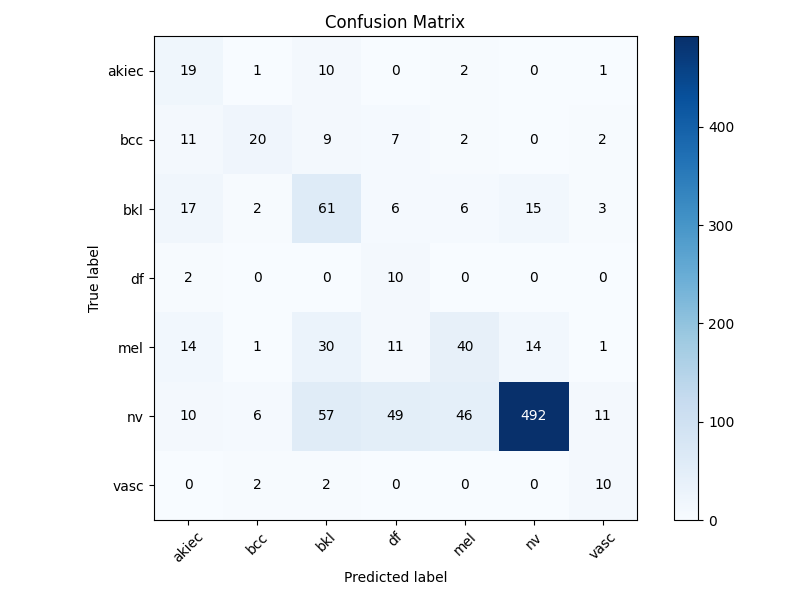
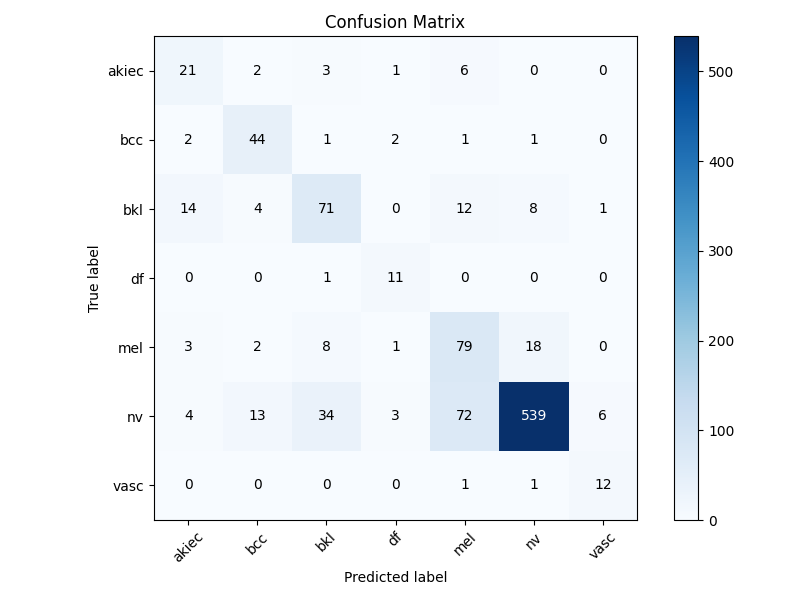
update before meeting #4

diff --git a/all_classes/train_v2.py b/all_classes/train_v2.py
@@ -2,14 +2,15 @@ import os
 import torch
 import torch.nn as nn
 import torch.optim as optim
-from torch.optim.lr_scheduler import ReduceLROnPlateau
+from torch.optim.lr_scheduler import StepLR
 from torchvision import datasets, transforms, models
-from torch.utils.data import DataLoader, WeightedRandomSampler
+from torch.utils.data import DataLoader
 from sklearn.metrics import classification_report, confusion_matrix
 import numpy as np
 import matplotlib.pyplot as plt
 from collections import Counter
 from tqdm import tqdm  # For progress bars
+import copy
 
 # ------------------------------
 # Configuration
@@ -25,8 +26,8 @@ else:
 
 # Image parameters
 IMG_HEIGHT = 224  # Updated to 224 for ResNet
-IMG_WIDTH = 224  # Updated to 224 for ResNet
-BATCH_SIZE = 128   # Adjusted batch size for better GPU utilization
+IMG_WIDTH = 224   # Updated to 224 for ResNet
+BATCH_SIZE = 16   # Adjusted batch size for better GPU utilization
 NUM_CLASSES = 7   # Updated to 7 for all disease classes
 EPOCHS = 150
 
@@ -38,9 +39,21 @@ Train class counts: Counter({5: 5363, 4: 891, 2: 879, 1: 411, 0: 261, 6: 114, 3:
 Class weights: [4.384783798576902, 2.78449774070212, 1.3019665203965545, 12.43944099378882, 1.284431617764951, 0.21339335659678751, 10.038847117794486]
 '''
 
+class ResNet18WithDropout(nn.Module):
+    def __init__(self, num_classes=7, dropout_prob=0.5):
+        super(ResNet18WithDropout, self).__init__()
+        self.resnet = models.resnet18(weights=models.ResNet18_Weights.DEFAULT)
+        num_ftrs = self.resnet.fc.in_features
+        self.resnet.fc = nn.Sequential(
+            nn.Dropout(p=dropout_prob),
+            nn.Linear(num_ftrs, num_classes)
+        )
+    
+    def forward(self, x):
+        return self.resnet(x)
+
 def main():
     # Set paths to training, validation, and test directories
-    # Ensure these paths point to the directories with all 7 classes
     train_dir = '../datasets/ham10000_classified/train'
     validation_dir = '../datasets/ham10000_classified/val'
     test_dir = '../datasets/ham10000_classified/test'
@@ -56,9 +69,9 @@ def main():
             transforms.Resize((IMG_HEIGHT, IMG_WIDTH)),
             transforms.RandomHorizontalFlip(),
             transforms.RandomVerticalFlip(),
-            transforms.RandomRotation(60),
-            transforms.RandomResizedCrop(IMG_HEIGHT, scale=(0.6, 1.0)),
-            transforms.ColorJitter(brightness=0.4, contrast=0.4, saturation=0.4, hue=0.4),
+            transforms.RandomRotation(20),
+            transforms.RandomResizedCrop(IMG_HEIGHT, scale=(0.8, 1.0)),
+            transforms.ColorJitter(brightness=0.2, contrast=0.2, saturation=0.2, hue=0.2),
             transforms.ToTensor(),
             transforms.Normalize([0.485, 0.456, 0.406],   # Mean for normalization
                                  [0.229, 0.224, 0.225])  # Std for normalization
@@ -101,41 +114,34 @@ def main():
             class_weight = 0  # Avoid division by zero
             print(f"Warning: Class {label} has zero samples in training data.")
         class_weights.append(class_weight)
-        #print(f"Class {label} count: {class_counts[label]}")
-        #print(f"Class {label} weight: {class_weight}")
     
     print(f"Class weights(normal): {class_weights}")
     # Convert class_weights to a tensor
     class_weights = torch.tensor(class_weights, dtype=torch.float).to(device)
     print(f"Class weights(torch): {class_weights}")
 
-
     # Data loaders with num_workers set to 0
     train_loader = DataLoader(train_dataset, batch_size=BATCH_SIZE, shuffle=True, num_workers=0)
     val_loader = DataLoader(val_dataset, batch_size=BATCH_SIZE, shuffle=False, num_workers=0)
     test_loader = DataLoader(test_dataset, batch_size=BATCH_SIZE, shuffle=False, num_workers=0)
 
-    # Load pre-trained ResNet-18 model and modify for multi-class classification
-    model = models.resnet18(weights=models.ResNet18_Weights.DEFAULT)
-
-    num_ftrs = model.fc.in_features
-    # Replace the last layer with a multi-class classification layer
-    model.fc = nn.Linear(num_ftrs, NUM_CLASSES)
-    model = model.to(device)
+    # Initialize the model with dropout
+    model = ResNet18WithDropout(num_classes=NUM_CLASSES, dropout_prob=0.5).to(device)
 
     # Loss function and optimizer
     criterion = nn.CrossEntropyLoss(weight=class_weights)
-    # Weight decay (L2 regularization) helps prevent overfitting by penalizing large weights.
-    optimizer = optim.Adam(model.parameters(), lr=0.0001, weight_decay=1e-4)
-    scheduler = ReduceLROnPlateau(optimizer=optimizer,
-                                  factor=0.1,
-                                  mode='min',
-                                  patience=10)
+    optimizer = optim.SGD(model.parameters(), lr=0.01, momentum=0.9, weight_decay=1e-4)
+    scheduler = StepLR(optimizer, step_size=30, gamma=0.1)
 
     # Training and validation loop
     train_losses, val_losses = [], []
     train_accuracies, val_accuracies = [], []
     learning_rates = []  # Initialize list to store learning rates
+
+    best_val_acc = 0.0
+    best_model_wts = copy.deepcopy(model.state_dict())
+    patience = 15
+    counter = 0
 
     for epoch in range(EPOCHS):
         print(f"\nEpoch {epoch+1}/{EPOCHS}")
@@ -173,7 +179,7 @@ def main():
             train_bar.set_postfix(loss=loss.item())
 
         epoch_loss = running_loss / len(train_dataset)
-        epoch_acc = correct.float() / len(train_dataset) 
+        epoch_acc = correct.float() / len(train_dataset)
         train_losses.append(epoch_loss)
         train_accuracies.append(epoch_acc.item())
         print(f"Training Loss: {epoch_loss:.4f} Acc: {epoch_acc:.4f}")
@@ -212,22 +218,31 @@ def main():
         val_accuracies.append(val_epoch_acc.item())
         print(f"Validation Loss: {val_epoch_loss:.4f} Acc: {val_epoch_acc:.4f}")
 
-        # learning rate 
-        scheduler.step(val_epoch_loss)
-        current_lr = scheduler.get_last_lr()[0]
+        # Update the scheduler
+        scheduler.step()
+
+        # Get current learning rate
+        current_lr = optimizer.param_groups[0]['lr']
         print(f"Current Learning Rate: {current_lr}")
         learning_rates.append(current_lr)
 
-        # historical metrics
-        print("------------- HISTORY ------------")
-        print(f"Training Accuracies: {train_accuracies}\n")
-        print(f"Validation Accuracies: {val_accuracies}\n")
-        print(f"Training Losses: {train_losses}\n")
-        print(f"Validation Losses: {val_losses}\n")
-        print(f"Learning Rates: {learning_rates}")
-        print("------------- HISTORY ------------")
+        # Early Stopping
+        if val_epoch_acc > best_val_acc:
+            best_val_acc = val_epoch_acc
+            best_model_wts = copy.deepcopy(model.state_dict())
+            counter = 0
+            print("New best model found!")
+        else:
+            counter += 1
+            print(f"No improvement for {counter} epochs.")
+            if counter >= patience:
+                print("Early stopping triggered.")
+                break
 
     print("\nTraining complete.")
+
+    # Load best model weights
+    model.load_state_dict(best_model_wts)
 
     # Evaluate on test set
     model.eval()
@@ -292,8 +307,8 @@ def main():
 
     # Plot training & validation accuracy values
     plt.figure(figsize=(8, 4))
-    plt.plot(range(1, EPOCHS+1), train_accuracies, label='Train')
-    plt.plot(range(1, EPOCHS+1), val_accuracies, label='Validation')
+    plt.plot(range(1, len(train_accuracies)+1), train_accuracies, label='Train')
+    plt.plot(range(1, len(val_accuracies)+1), val_accuracies, label='Validation')
     plt.title('Model Accuracy')
     plt.xlabel('Epoch')
     plt.ylabel('Accuracy')
@@ -303,8 +318,8 @@ def main():
 
     # Plot training & validation loss values
     plt.figure(figsize=(8, 4))
-    plt.plot(range(1, EPOCHS+1), train_losses, label='Train')
-    plt.plot(range(1, EPOCHS+1), val_losses, label='Validation')
+    plt.plot(range(1, len(train_losses)+1), train_losses, label='Train')
+    plt.plot(range(1, len(val_losses)+1), val_losses, label='Validation')
     plt.title('Model Loss')
     plt.xlabel('Epoch')
     plt.ylabel('Loss')
@@ -312,25 +327,23 @@ def main():
     plt.savefig('model_loss.png')
     #plt.show()
 
-
     # Plot learning rate over epochs
     plt.figure(figsize=(8, 4))
-    plt.plot(range(1, EPOCHS+1), learning_rates, marker='o', label='Learning Rate')
+    plt.plot(range(1, len(learning_rates)+1), learning_rates, marker='o', label='Learning Rate')
     plt.title('Learning Rate Over Epochs')
     plt.xlabel('Epoch')
     plt.ylabel('Learning Rate')
-    plt.xticks(range(1, EPOCHS+1))
+    plt.xticks(range(1, len(learning_rates)+1))
     plt.grid(True)
     plt.legend()
     plt.tight_layout()
     plt.savefig('learning_rate.png')
     #plt.show()
 
-
     # Save the trained model
     os.makedirs('../weights', exist_ok=True)
-    torch.save(model.state_dict(), '../weights/resnet18_ham10000_7classes_25epochs.pth')
-    print("Model saved to '../weights/resnet18_ham10000_7classes_25epochs.pth'")
+    torch.save(model.state_dict(), '../weights/resnet18_ham10000_7classes_best.pth')
+    print("Best model saved to '../weights/resnet18_ham10000_7classes_best.pth'")
 
 if __name__ == '__main__':
     main()

diff --git a/backend/app.py b/backend/app.py
@@ -86,7 +86,8 @@ def load_model(model_path, num_classes):
 # =========================
 print("Loading the 7-class ResNet-18 model...")
 
-model_path = '../weights/resnet18_ham10000_7classes.pth'
+#model_path = '../weights/resnet18_ham10000_7classes.pth'
+model_path = '../weights/#resnet18_ham10000_7classes_25epochs.pth' # better trained model
 
 # Check if the model file exists
 if not os.path.exists(model_path):

diff --git a/all_classes/README.md b/all_classes/README.md
@@ -1,0 +1,4 @@
+# ReadME
+
+## Training 
+This was trained on 25 epochs. I used 224 x 224 sized images. 
